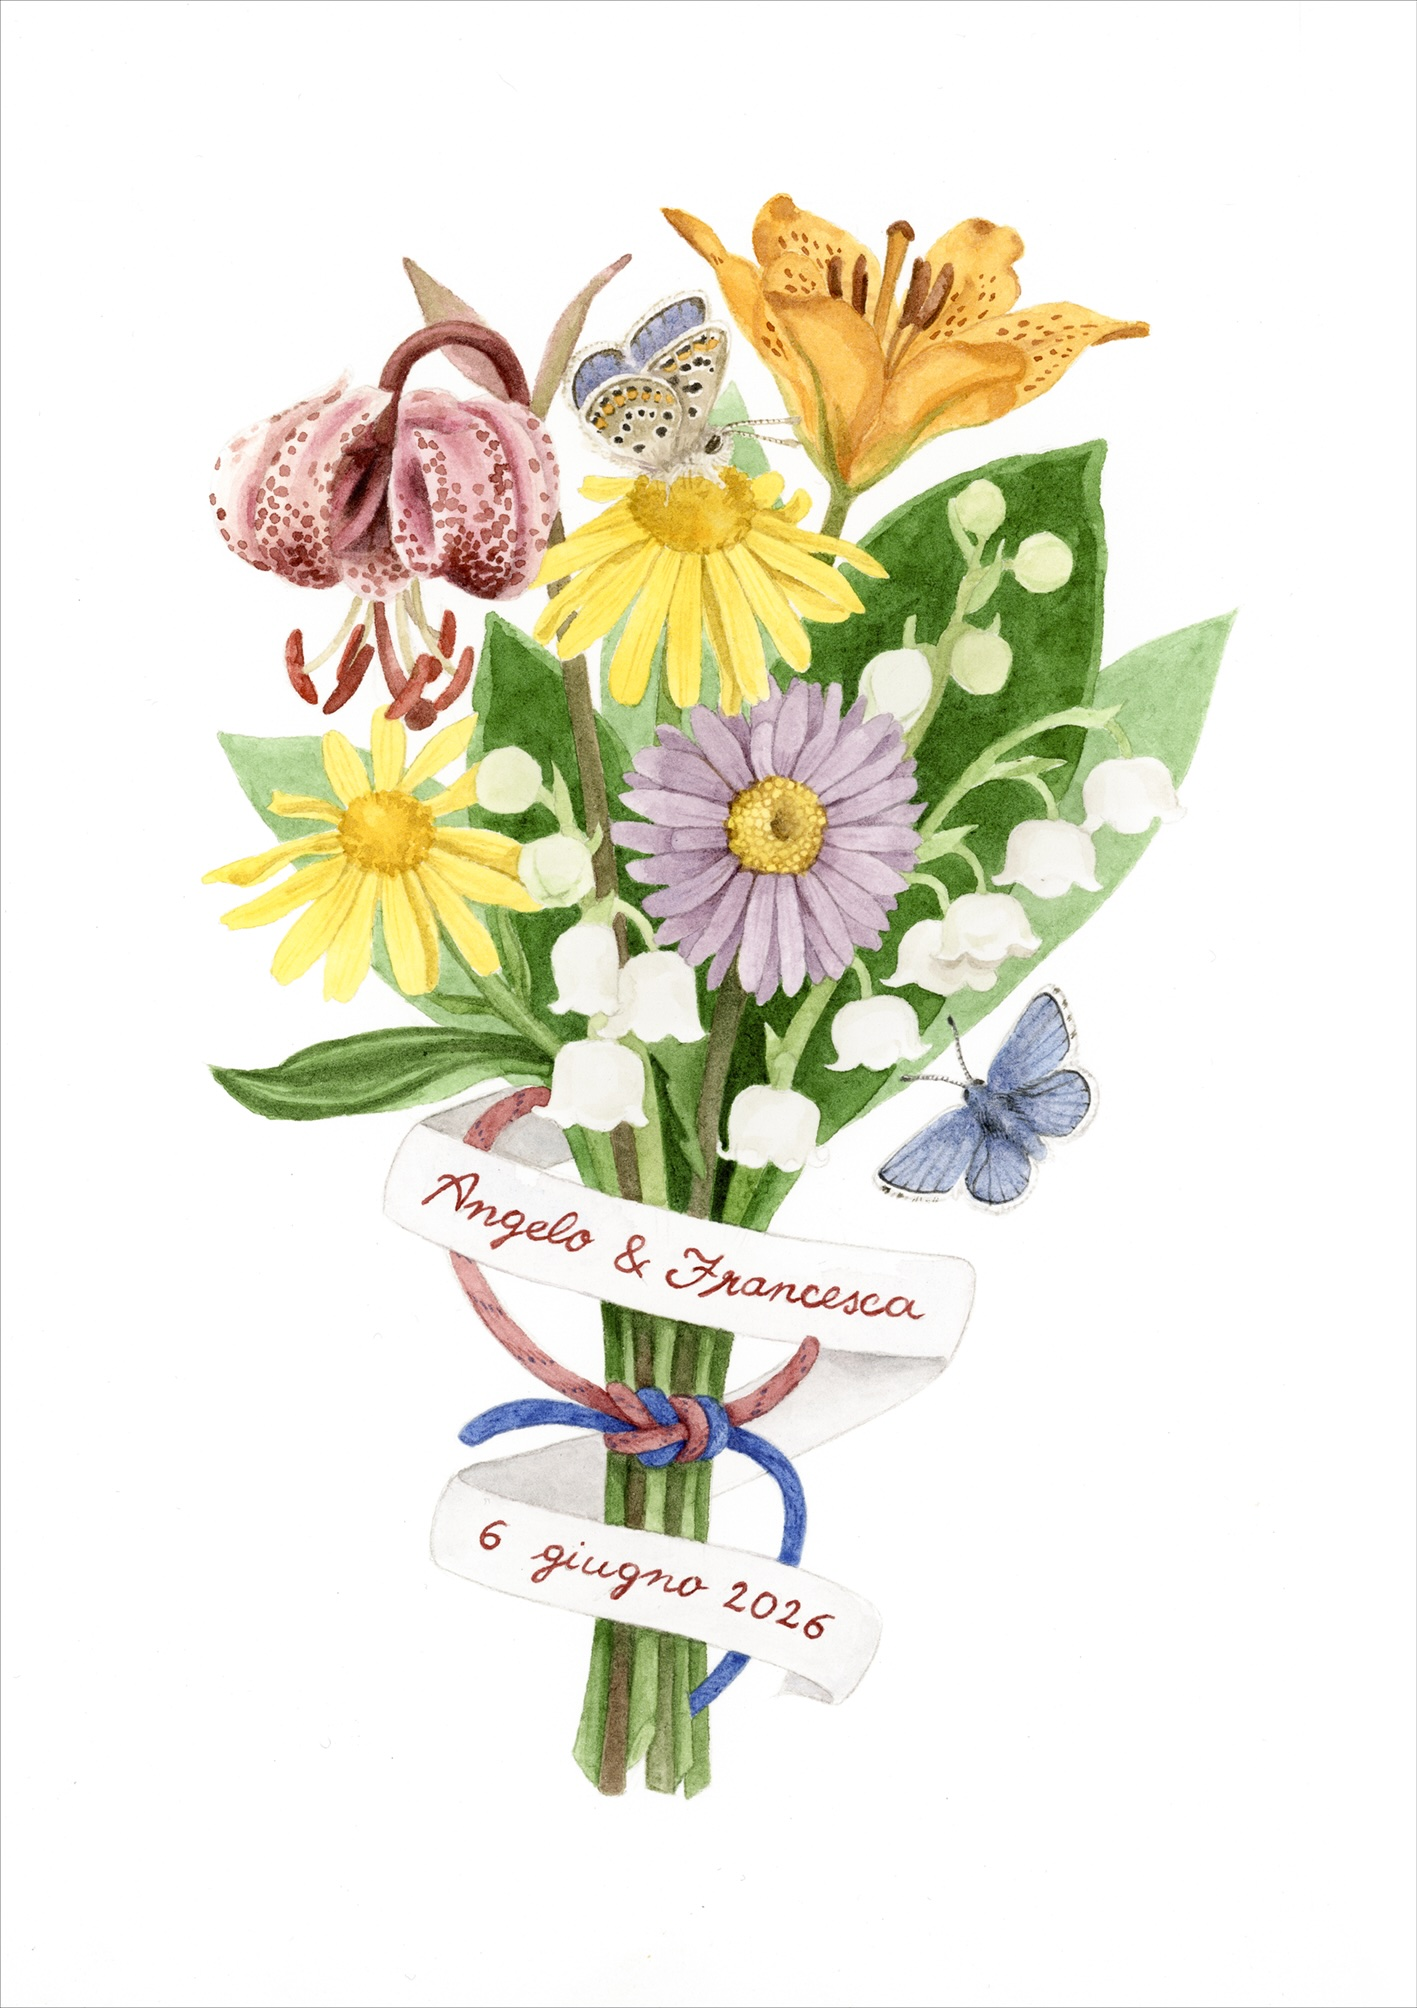
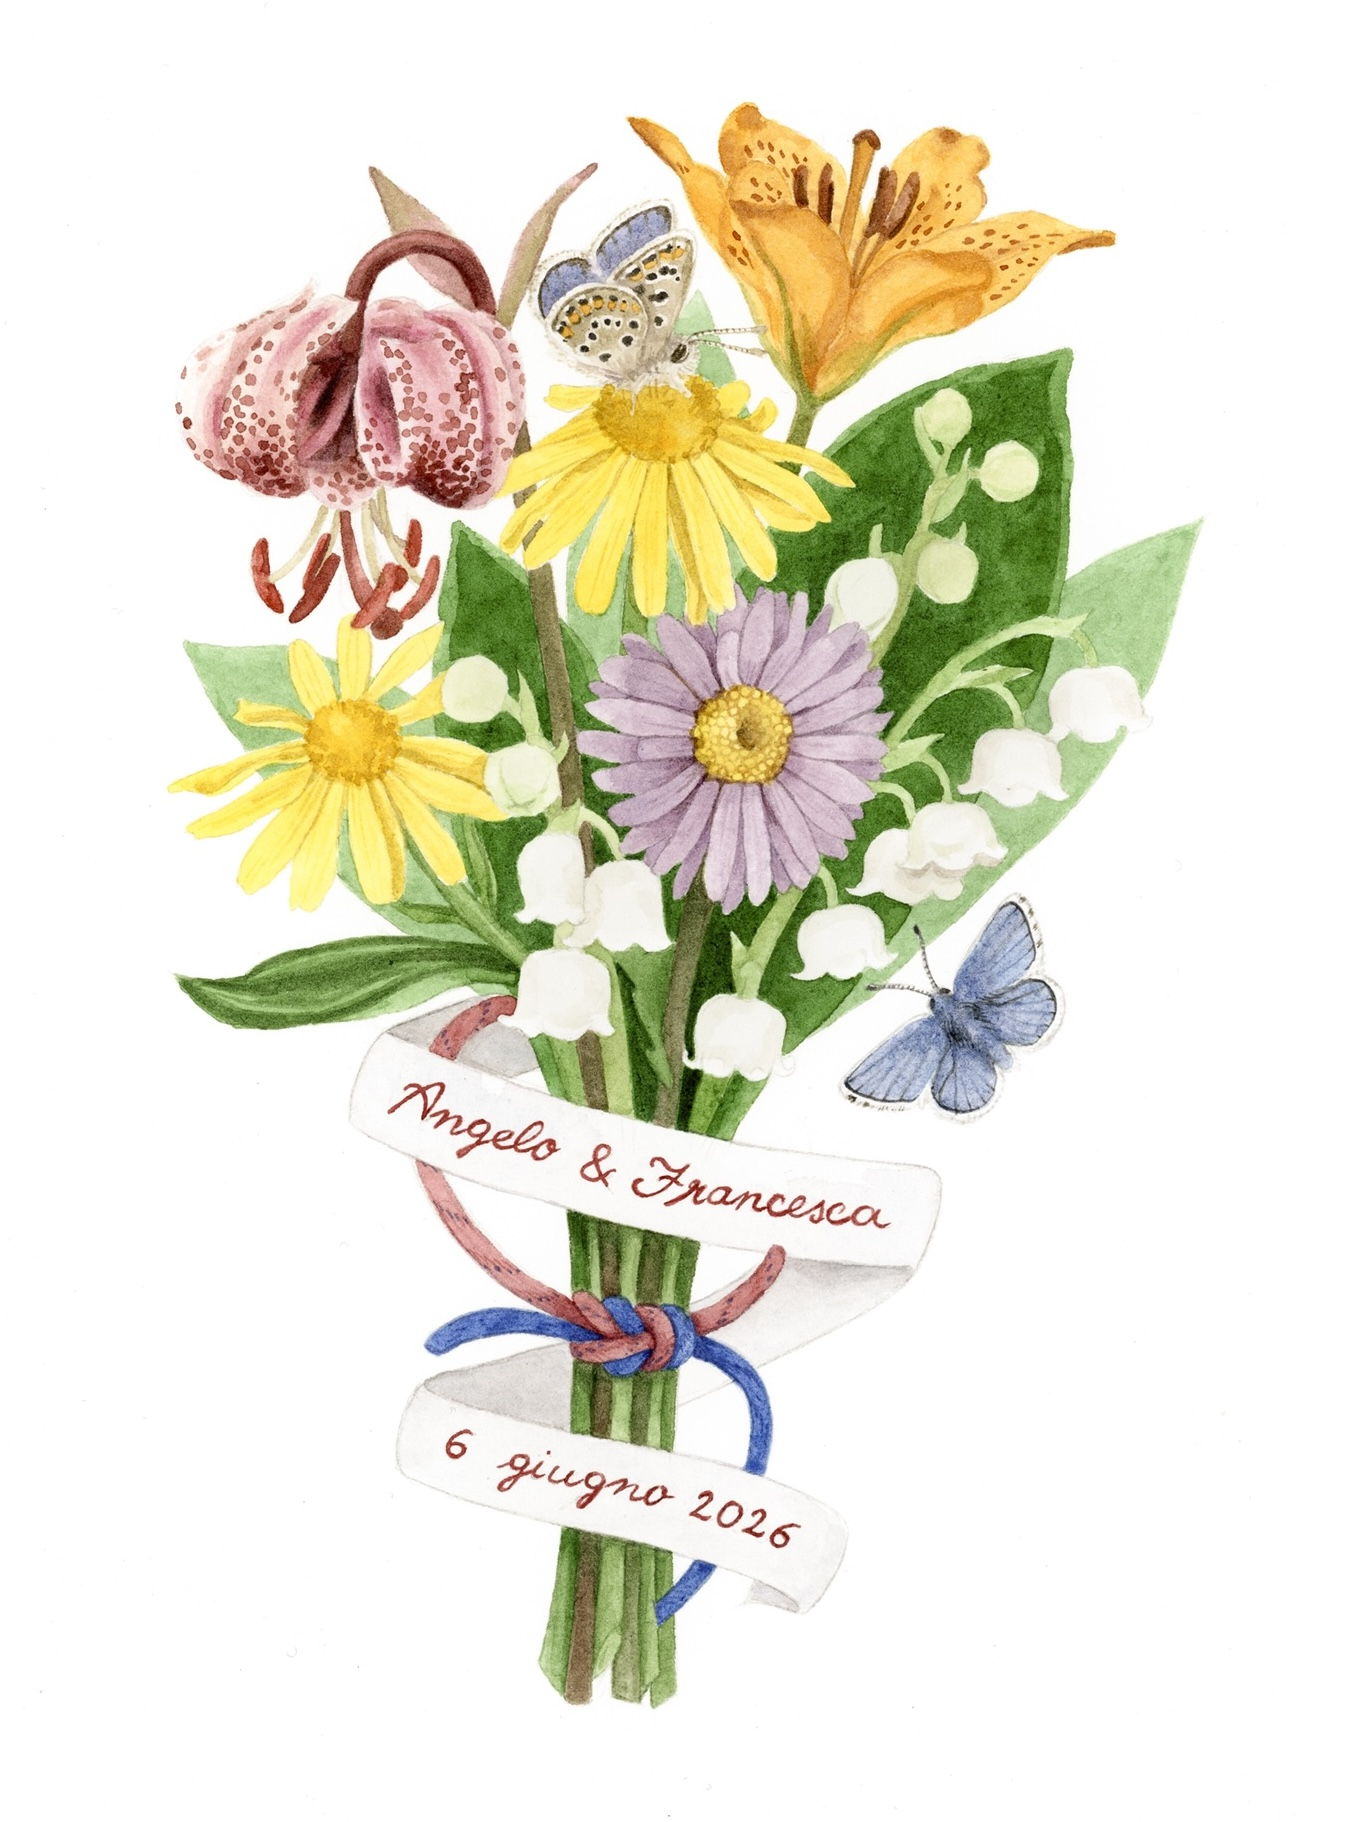
trying to change image zoom

Changed region(s): [[0.1247, 0.0615, 0.9042, 0.9528], [0.9978, 0.0, 1.0, 1.0]]

diff --git a/index.html b/index.html
@@ -8,15 +8,23 @@
   <style>
     * { margin: 0; padding: 0; box-sizing: border-box; }
     html { scroll-behavior: smooth; }
-    body {
+
+    body{
       font-family: system-ui, -apple-system, BlinkMacSystemFont,
                    "Segoe UI", Roboto, Helvetica, Arial, sans-serif;
       color: #111;
     }
-    body::before { content:""; position:fixed; inset:0; background:#fff !important; z-index:-1; }
 
+    /* Page background. This is what you will see "around" a contain-sized hero image. */
     html, body { background: #fff; }
     html { color-scheme: light; }
+
+    /*
+      IMPORTANT:
+      If you use background-size: contain, the image will NOT fill the whole section.
+      The remaining area will show the SECTION's background (or the page background if the section is transparent).
+      To avoid a visible “boxed” look, we make #hero background transparent so it blends with the page.
+    */
 
     /* ===================== NAV (DEFAULT = DESKTOP/TABLET) ===================== */
     nav {
@@ -97,26 +105,32 @@
 
     /* ===================== HERO (DEFAULT = DESKTOP/TABLET) ===================== */
     #hero {
-      background-image: url("hero.jpeg");
+      background-image: url("hero.png");
       background-repeat: no-repeat;
+
+      /*
+        KEY CHANGE TO REMOVE THE “BOX”:
+        - Do NOT paint a background color on the hero section.
+        - Leave it transparent so any unused space blends with the page background.
+        If you set background-color here (even white), it can still read as a “frame”/box on some screens.
+      */
       background-color: #fff;
 
       /*
-        DESKTOP/TABLET DEFAULTS:
-
-        To change IMAGE SIZE on desktop:
-          - Use "cover" to fill the whole screen (cropping will happen)
-          - Use "contain" to show the whole image (may leave empty margins)
-          - Use percentages for fine control (e.g. "110% auto" or "auto 120%")
-
-        To change IMAGE POSITION on desktop:
-          - "50% 50%" is centered
-          - "50% 20%" moves image UP (shows more bottom)
-          - "50% 80%" moves image DOWN (shows more top)
-          - "center top", "center bottom" are also valid
+        DESKTOP/TABLET:
+        - background-size controls the image size.
+          Examples:
+            background-size: contain;      (shows full image, may leave empty space)
+            background-size: cover;        (fills screen, crops)
+            background-size: auto 115%;    (fine control)
+        - background-position controls location.
+          Examples:
+            50% 50%  = center
+            50% 20%  = move image up
+            50% 80%  = move image down
       */
-      background-size: auto 115%;   /* desktop size: make the image a bit bigger */
-      background-position: 50% 50%; /* desktop position: centered */
+      background-size: auto 118%;
+      background-position: 50% 50%;
     }
 
     /* ===================== PHONE (STANDARD: WIDTH BREAKPOINT) ===================== */
@@ -132,7 +146,7 @@
 
       nav a {
         font-size: 0.9rem;       /* phone-only menu font size */
-        letter-spacing: 0.06em;  /* optional: tighter spacing on small screens */
+        letter-spacing: 0.06em;
       }
 
       .nav-left {
@@ -165,25 +179,23 @@
       /* HERO on phone */
       #hero {
         /*
-          PHONE OVERRIDES:
+          PHONE:
+          Keep "contain" if you want the entire photo visible (no cropping).
+          Note: contain WILL leave empty space if the image ratio != screen ratio.
+          That empty space will blend with the page because #hero is transparent.
 
-          Change IMAGE SIZE on phone:
-            - "contain" shows the whole photo (no cropping), often best on phones
-            - "cover" fills screen but crops, sometimes faces get cut off
-            - Percentages give fine control:
-                background-size: 92% auto;  (slightly smaller)
-                background-size: 110% auto; (slightly larger)
+          Change size on phone:
+            - contain            (whole image)
+            - 92% auto           (slightly smaller)
+            - 110% auto          (slightly larger)
 
-          Change IMAGE POSITION on phone:
-            - first value is horizontal (0% left, 50% center, 100% right)
-            - second value is vertical   (0% top,  50% center, 100% bottom)
-            Examples:
-              background-position: 50% 15%;  (move image UP)
-              background-position: 50% 70%;  (move image DOWN)
+          Change position on phone:
+            - 50% 45%            (center-ish)
+            - 50% 20%            (move up)
+            - 50% 70%            (move down)
         */
-
-        background-size: contain;     /* phone size: show whole image */
-        background-position: 50% 45%; /* phone position: slightly higher than center */
+        background-size: calc(100% + 10px) auto;
+        background-position: 50% 45%;
       }
     }
 
@@ -206,7 +218,6 @@
 </head>
 
 <body>
-
   <!-- NAV -->
   <nav id="site-nav">
     <div class="nav-left">
